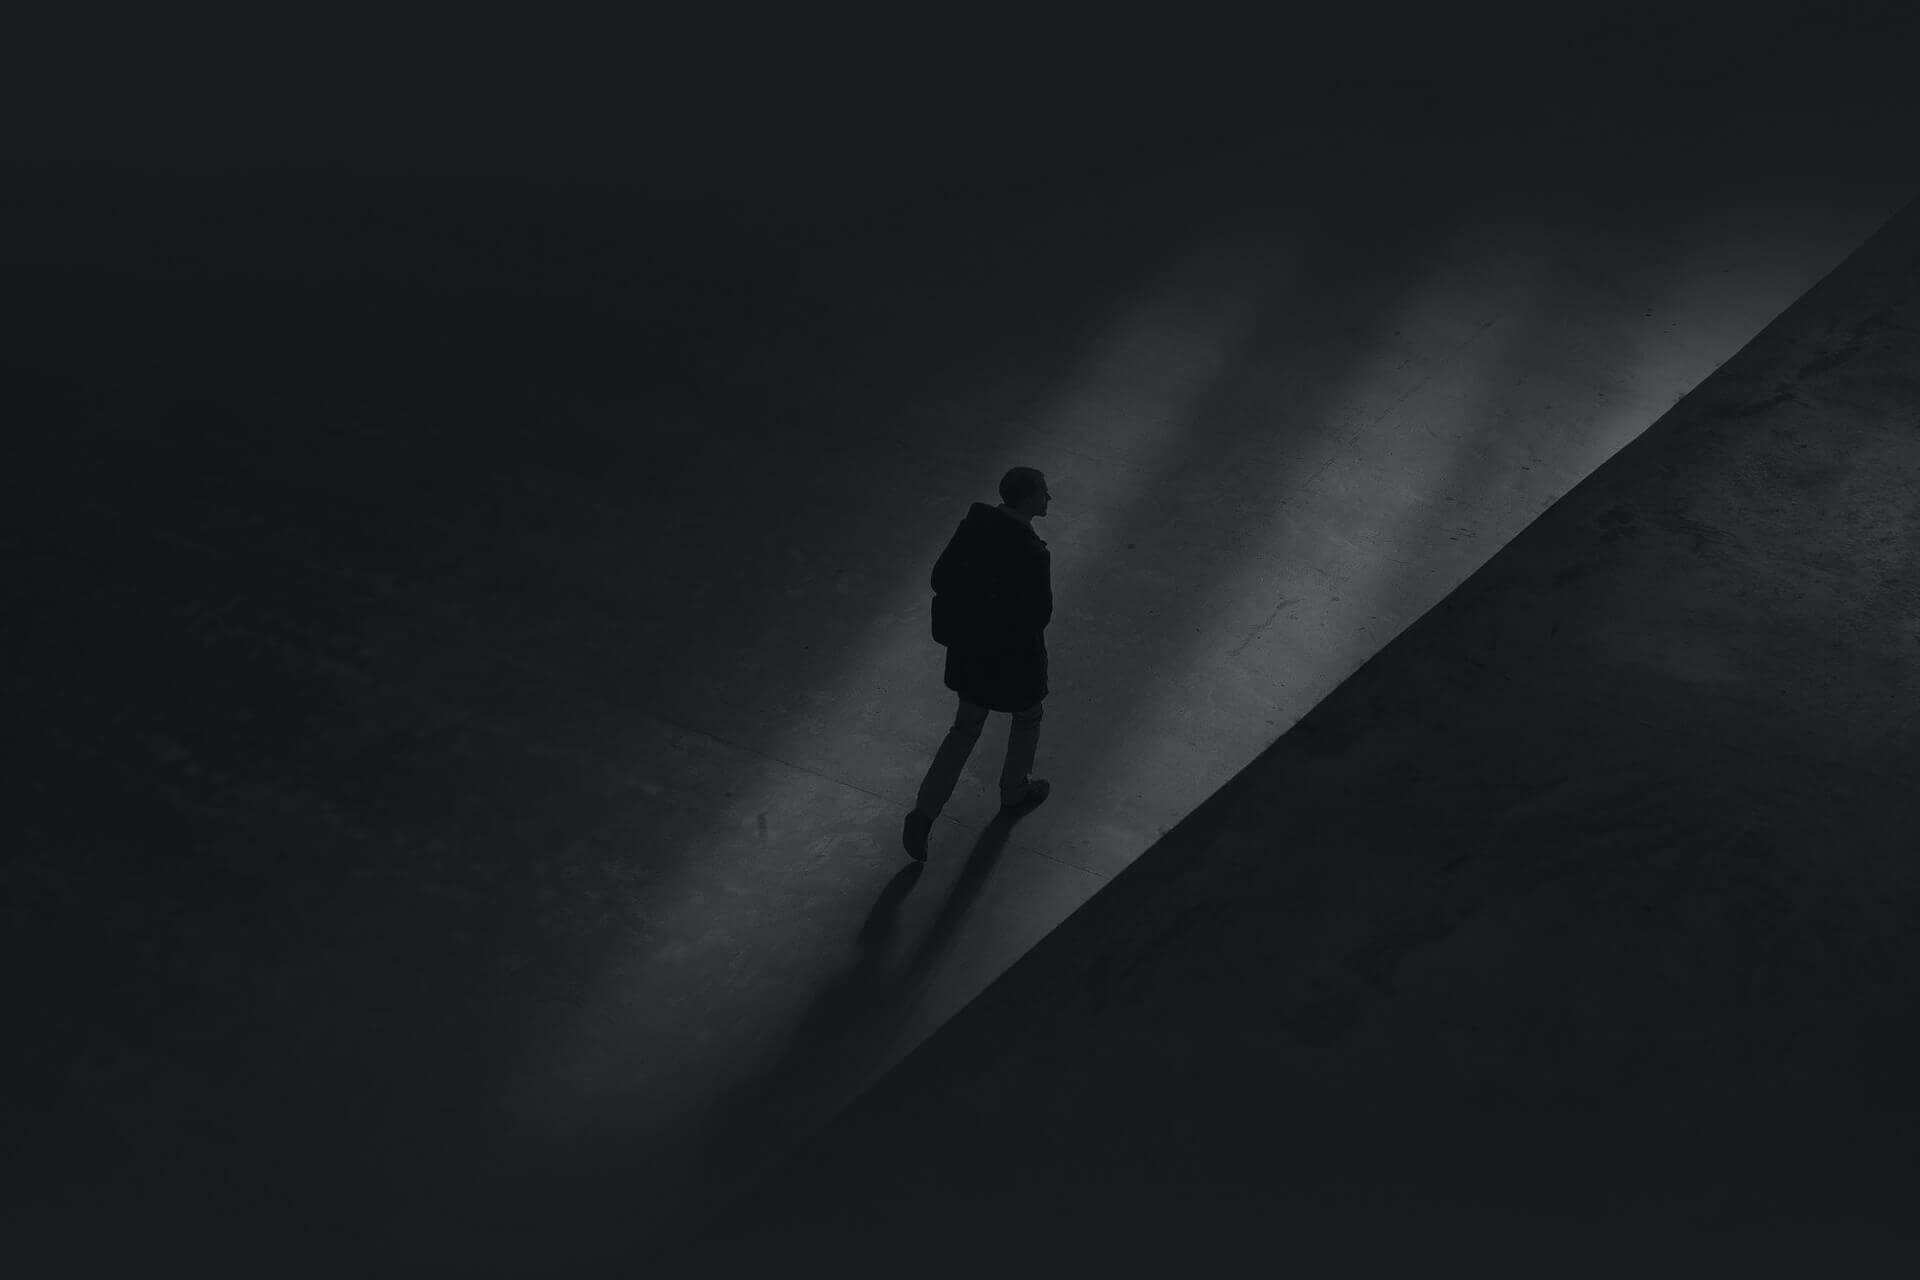
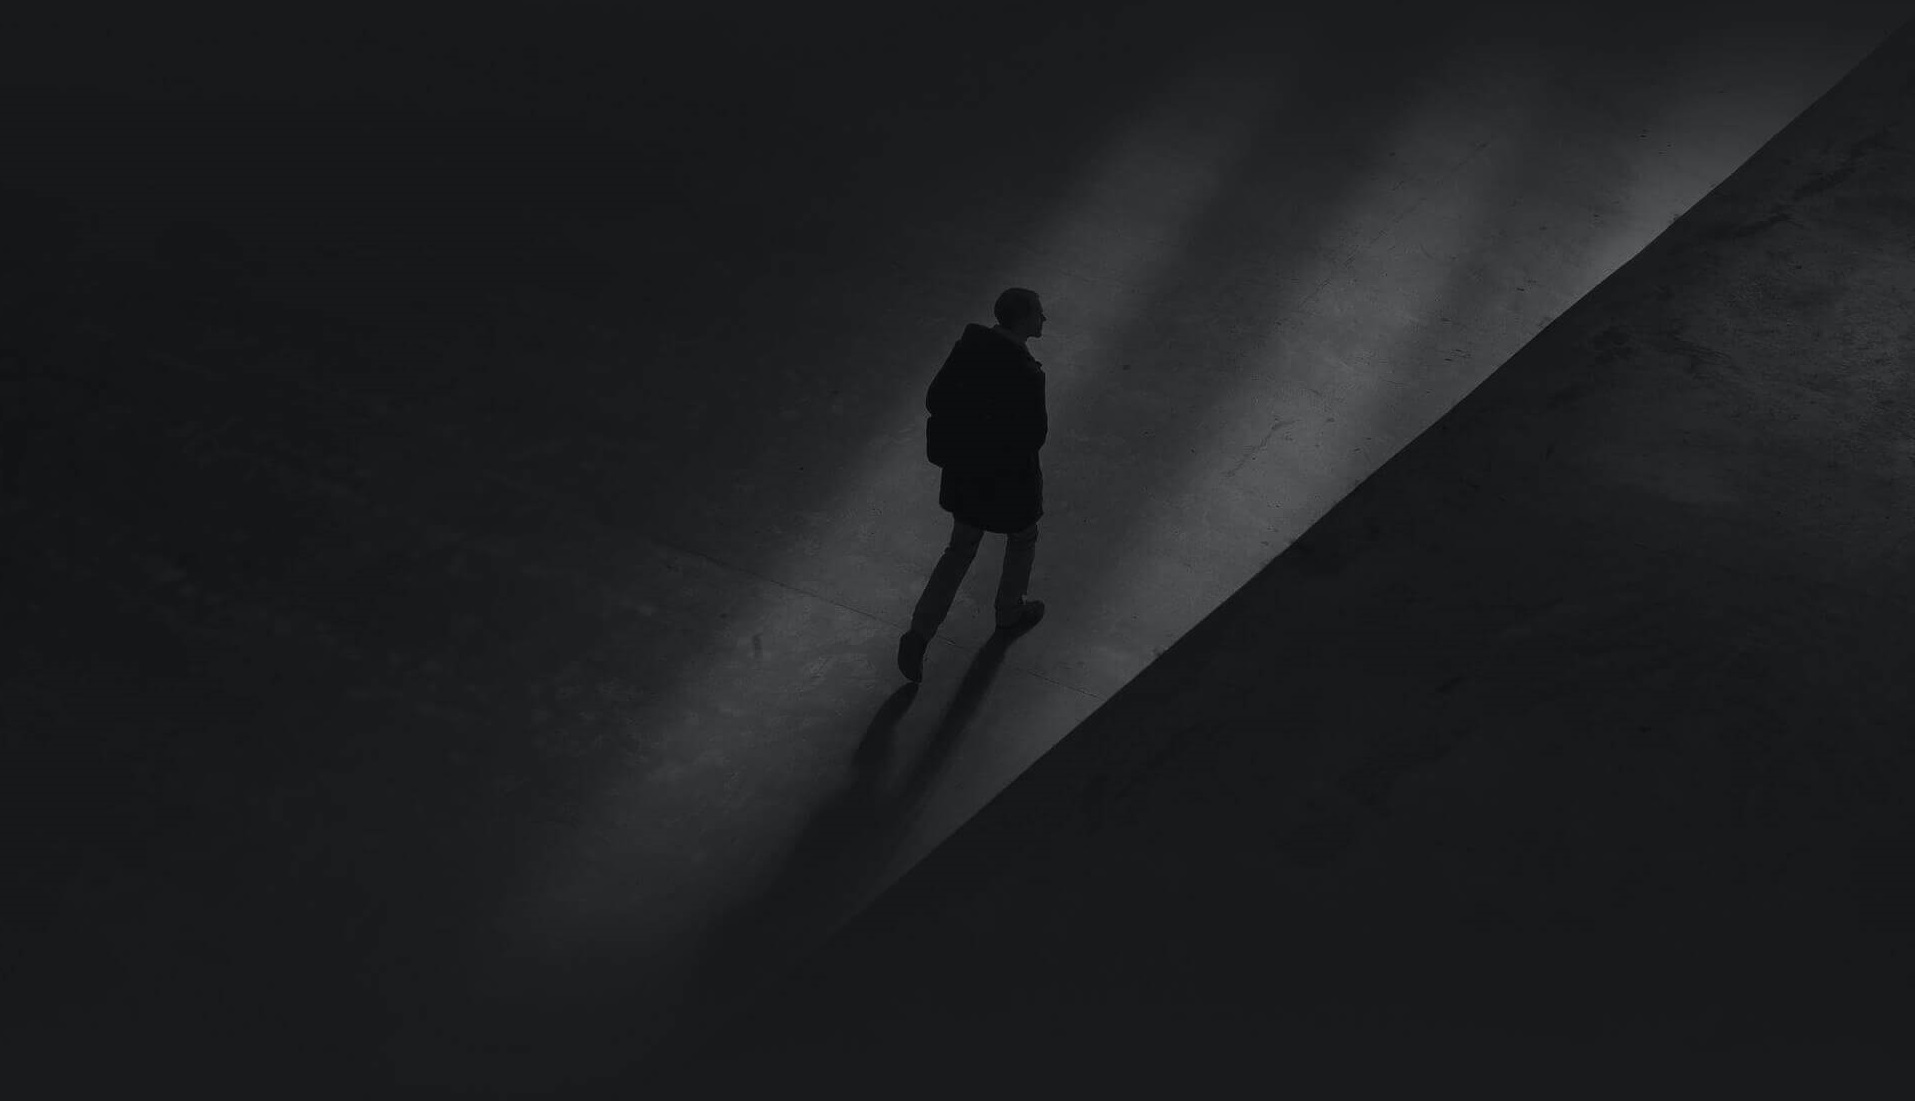
Home animatoin

Changed region(s): [[0.4313, 0.0926, 0.9243, 0.7411], [0.6162, 0.1235, 0.801, 0.4632], [0.4005, 0.525, 0.4313, 0.5867]]

diff --git a/vmjaramillo1/src/app/containers/Home/Home.tsx b/vmjaramillo1/src/app/containers/Home/Home.tsx
@@ -1,5 +1,9 @@
+import { useEffect, useState } from "react";
+import GlobalFooter from "@global/GlobalFooter";
 import GlobalHeader from "@global/GlobalHeader";
+import Link from "@mui/material/Link";
 import logoImage from "app/assets/Header/logo.png";
+import sharedIndo from "app/data/containers/shared.json";
 
 import AboutSection from "./AboutSection";
 import CiteSection from "./CiteSection";
@@ -7,23 +11,96 @@ import ContactSection from "./ContactSection";
 import EducationSection from "./EducationSection";
 import HeroSection from "./HeroSection";
 import PorfolioSection from "./PorfolioSection";
-import SkillsSection from "./SkillsSection";
 import WhatidoSection from "./WhatidoSection";
 
+const logo = {
+  url: "hero-section",
+  src: logoImage,
+  alt: "Logo de pagin",
+};
+
+const menu = (
+  <>
+    <Link
+      href="http://localhost:3006/vmjaramillo1"
+      variant="body2"
+      className="body2 font-semibold text-white "
+    >
+      Home
+    </Link>
+    <Link
+      href="#about-section"
+      variant="body2"
+      className="body2 font-semibold text-white"
+    >
+      About me
+    </Link>
+    <Link
+      href="http://localhost:3006/vmjaramillo1"
+      variant="body2"
+      className="body2 font-semibold text-white"
+    >
+      What I Do
+    </Link>
+    <Link
+      href="http://localhost:3006/vmjaramillo1"
+      variant="body2"
+      className="body2 font-semibold text-white"
+    >
+      Portofolio
+    </Link>
+    <Link
+      href="http://localhost:3006/vmjaramillo1"
+      variant="body2"
+      className="body2 font-semibold text-white"
+    >
+      My resume
+    </Link>
+    <Link
+      href="http://localhost:3006/vmjaramillo1"
+      variant="body2"
+      className="body2 font-semibold text-white"
+    >
+      Contact Me
+    </Link>
+  </>
+);
+
 const Home = () => {
-  const logo = {
-    url: "hero-section",
-    src: logoImage,
-    alt: "Logo de pagin",
+  const [isScroll, setIsScroll] = useState(false);
+
+  const onScrollHandler = (e: Event) => {
+    if (!e.target) return;
+
+    const header = document.getElementById("test");
+    const sticky = header.offsetTop;
+    if (window.pageYOffset > sticky) {
+      setIsScroll(true);
+    } else {
+      setIsScroll(false);
+    }
   };
+
+  useEffect(() => {
+    document.addEventListener("scroll", onScrollHandler);
+    return () => {
+      document.removeEventListener("scroll", onScrollHandler);
+    };
+  }, []);
 
   return (
     <>
       <GlobalHeader
         logo={logo}
         fixed
-        className={{ root: "z-20 shadow-none", img: "h-[36px]" }}
-      />
+        className={{
+          root: `z-20 shadow-none ${isScroll ? "bg-neutral-600" : ""} `,
+          img: "h-[36px]",
+        }}
+        id="test"
+      >
+        {menu}
+      </GlobalHeader>
       <HeroSection />
       <AboutSection />
       <CiteSection />
@@ -31,6 +108,14 @@ const Home = () => {
       <PorfolioSection />
       <EducationSection />
       <ContactSection />
+      <GlobalFooter
+        {...sharedIndo.footerSeccion}
+        className={{
+          root: "border-t border-t-neutral-alternative1-600 bg-neutral-alternative1-900",
+          rightsReserved: "text-neutral-400",
+          platformInfo: "text-neutral-400",
+        }}
+      />
     </>
   );
 };

diff --git a/vmjaramillo1/src/app/containers/Home/CiteSection/CiteSection.tsx b/vmjaramillo1/src/app/containers/Home/CiteSection/CiteSection.tsx
@@ -10,11 +10,14 @@ const CiteSection = () => {
   return (
     <section
       id="what-it-section"
-      className="h-auto w-full bg-neutral-alternative1-900 bg-cover bg-center py-0"
+      className="relative h-auto w-full bg-neutral-alternative1-900 from-neutral-alternative1-900 from-neutral-alternative1-900 to-transparent to-transparent bg-cover bg-center
+      py-0 before:absolute before:bottom-0 before:left-0 before:z-10 before:h-1/2
+      before:w-full before:bg-gradient-to-t after:absolute
+      after:top-0 after:left-0 after:z-10 after:h-1/2 after:w-full after:bg-gradient-to-b"
     >
-      <Parallax bgImage={background} strength={300}>
-        <GlobalContainer contentSize="xl">
-          <div className="flex min-h-screen items-center">
+      <Parallax className="pb-9xl" bgImage={background} strength={300}>
+        <GlobalContainer className={{ root: "py-m" }} contentSize="xl">
+          <div className="flex items-center pt-5xl pb-5xl">
             <blockquote className="mx-auto w-10/12 text-white">
               <i className="font-ElegantIcons text-[150px] not-italic text-primary-500 before:content-['{']" />
               <GlobalTypography

diff --git a/vmjaramillo1/src/app/containers/Home/ContactSection/contactSection.tsx b/vmjaramillo1/src/app/containers/Home/ContactSection/contactSection.tsx
@@ -62,7 +62,10 @@ const contactSection = () => {
   return (
     <section
       id="contact-section"
-      className="h-auto w-full bg-neutral-alternative1-900 bg-cover bg-center py-0"
+      className="relative h-auto w-full bg-neutral-alternative1-900 from-neutral-alternative1-900 from-neutral-alternative1-900 to-transparent to-transparent bg-cover bg-center
+      py-0 before:absolute before:bottom-0 before:left-0 before:z-10 before:h-1/6
+      before:w-full before:bg-gradient-to-t after:absolute
+      after:top-0 after:left-0 after:z-10 after:h-1/6 after:w-full after:bg-gradient-to-b"
     >
       <Parallax bgImage={background} strength={300}>
         <GlobalContainer contentSize="xl">

diff --git a/vmjaramillo1/src/app/containers/Home/HeroSection/heroSection.tsx b/vmjaramillo1/src/app/containers/Home/HeroSection/heroSection.tsx
@@ -8,7 +8,9 @@ const heroSectionSection = () => {
   return (
     <section
       id="hero-section"
-      className="relative h-auto w-full bg-neutral-alternative1-900 before:from-[#171a1d00] bg-cover bg-center py-0 before:bg-gradient-to-t"
+      className="relative h-auto w-full bg-neutral-alternative1-900  from-neutral-alternative1-900 to-transparent bg-cover bg-center py-0 before:absolute
+      before:bottom-0 before:left-0 before:z-10 before:h-1/2 before:w-full before:bg-gradient-to-t
+      "
     >
       <Parallax bgImage={background} strength={300}>
         <GlobalContainer contentSize="xl">

diff --git a/vmjaramillo1/src/@global/GlobalHeader/GlobalHeader.tsx b/vmjaramillo1/src/@global/GlobalHeader/GlobalHeader.tsx
@@ -7,6 +7,7 @@ interface GlobalHeaderProps {
   fixed?: boolean;
   className?: Partial<ClassNameProps>;
   children?: any;
+  id?: string;
 }
 
 interface ClassNameProps {
@@ -27,6 +28,7 @@ const GlobalHeader = ({
   fixed,
   className,
   children,
+  id
 }: GlobalHeaderProps) => {
   const containterClass = {
     content: "justify-between py-s flex px-s-5xl",
@@ -34,6 +36,7 @@ const GlobalHeader = ({
 
   return (
     <header
+      id={id || ""}
       className={clsx(
         "max-h-[82px] shadow-2md",
         fixed && "fixed top-0 z-10 w-full",

diff --git a/vmjaramillo1/src/@global/GlobalFooter/GlobalFooter.tsx b/vmjaramillo1/src/@global/GlobalFooter/GlobalFooter.tsx
@@ -46,14 +46,14 @@ const GlobalFooter = ({
             content={platformInfo}
             className={{ root: clsx("font-medium", className?.platformInfo) }}
           />
-          <img
+          {/* <img
             src={platformLogo.src}
             className={clsx(
               "my-auto ml-[4px] h-[11.69] w-[41px]",
               className?.img
             )}
             alt={platformLogo.alt}
-          />
+          /> */}
         </div>
       </GlobalContainer>
     </footer>

diff --git a/vmjaramillo1/src/app/App.tsx b/vmjaramillo1/src/app/App.tsx
@@ -1,15 +1,10 @@
 import { useRoutes } from "react-router-dom";
-import configuration from "app/data/configuration/configuration.json";
 import withAppProviders from "app/withAppProviders";
 
 import AppRoutes from "./routes";
 
 function App() {
-  return (
-    <>
-      {useRoutes([...AppRoutes.mainRoutes])}
-    </>
-  );
+  return <>{useRoutes([...AppRoutes.mainRoutes])}</>;
 }
 
 export default withAppProviders(App)();

diff --git a/vmjaramillo1/src/@global/GlobalLenguajeProgress/GlobalLenguajeProgress.tsx b/vmjaramillo1/src/@global/GlobalLenguajeProgress/GlobalLenguajeProgress.tsx
@@ -13,7 +13,7 @@ const GlobalLenguajeProgress = ({
   return (
     <div className={clsx("flex justify-center", className?.root)}>
       {valueList.map(({ value, text }, index) => (
-        <div key={index} className="mx-2xl text-center">
+        <div key={index} className="mx-xl text-center">
           <GlobalSpinner
             value={value}
             thickness={individualSpiner.thickness}

diff --git a/vmjaramillo1/src/@global/GlobalHero/GlobalHero.tsx b/vmjaramillo1/src/@global/GlobalHero/GlobalHero.tsx
@@ -36,7 +36,7 @@ const GlobalHero = () => {
           data-aos-easing="ease"
           data-aos-once="true"
         >
-          <GlobalTypography variant="h0">
+          <GlobalTypography className="h0">
             <Typed
               strings={["FREELANCER ", "PROGAMMER", "PHOTOGRAPHER"]}
               typeSpeed={60}

diff --git a/vmjaramillo1/src/app/containers/Home/AboutSection/aboutSection.tsx b/vmjaramillo1/src/app/containers/Home/AboutSection/aboutSection.tsx
@@ -15,7 +15,7 @@ const intiialValues: GlobalLenguajeProgressProps = {
     { value: 90, text: "Test" },
   ],
   individualSpiner: {
-    thickness: 1,
+    thickness: 1.5,
     size: 200,
   },
   className: {
